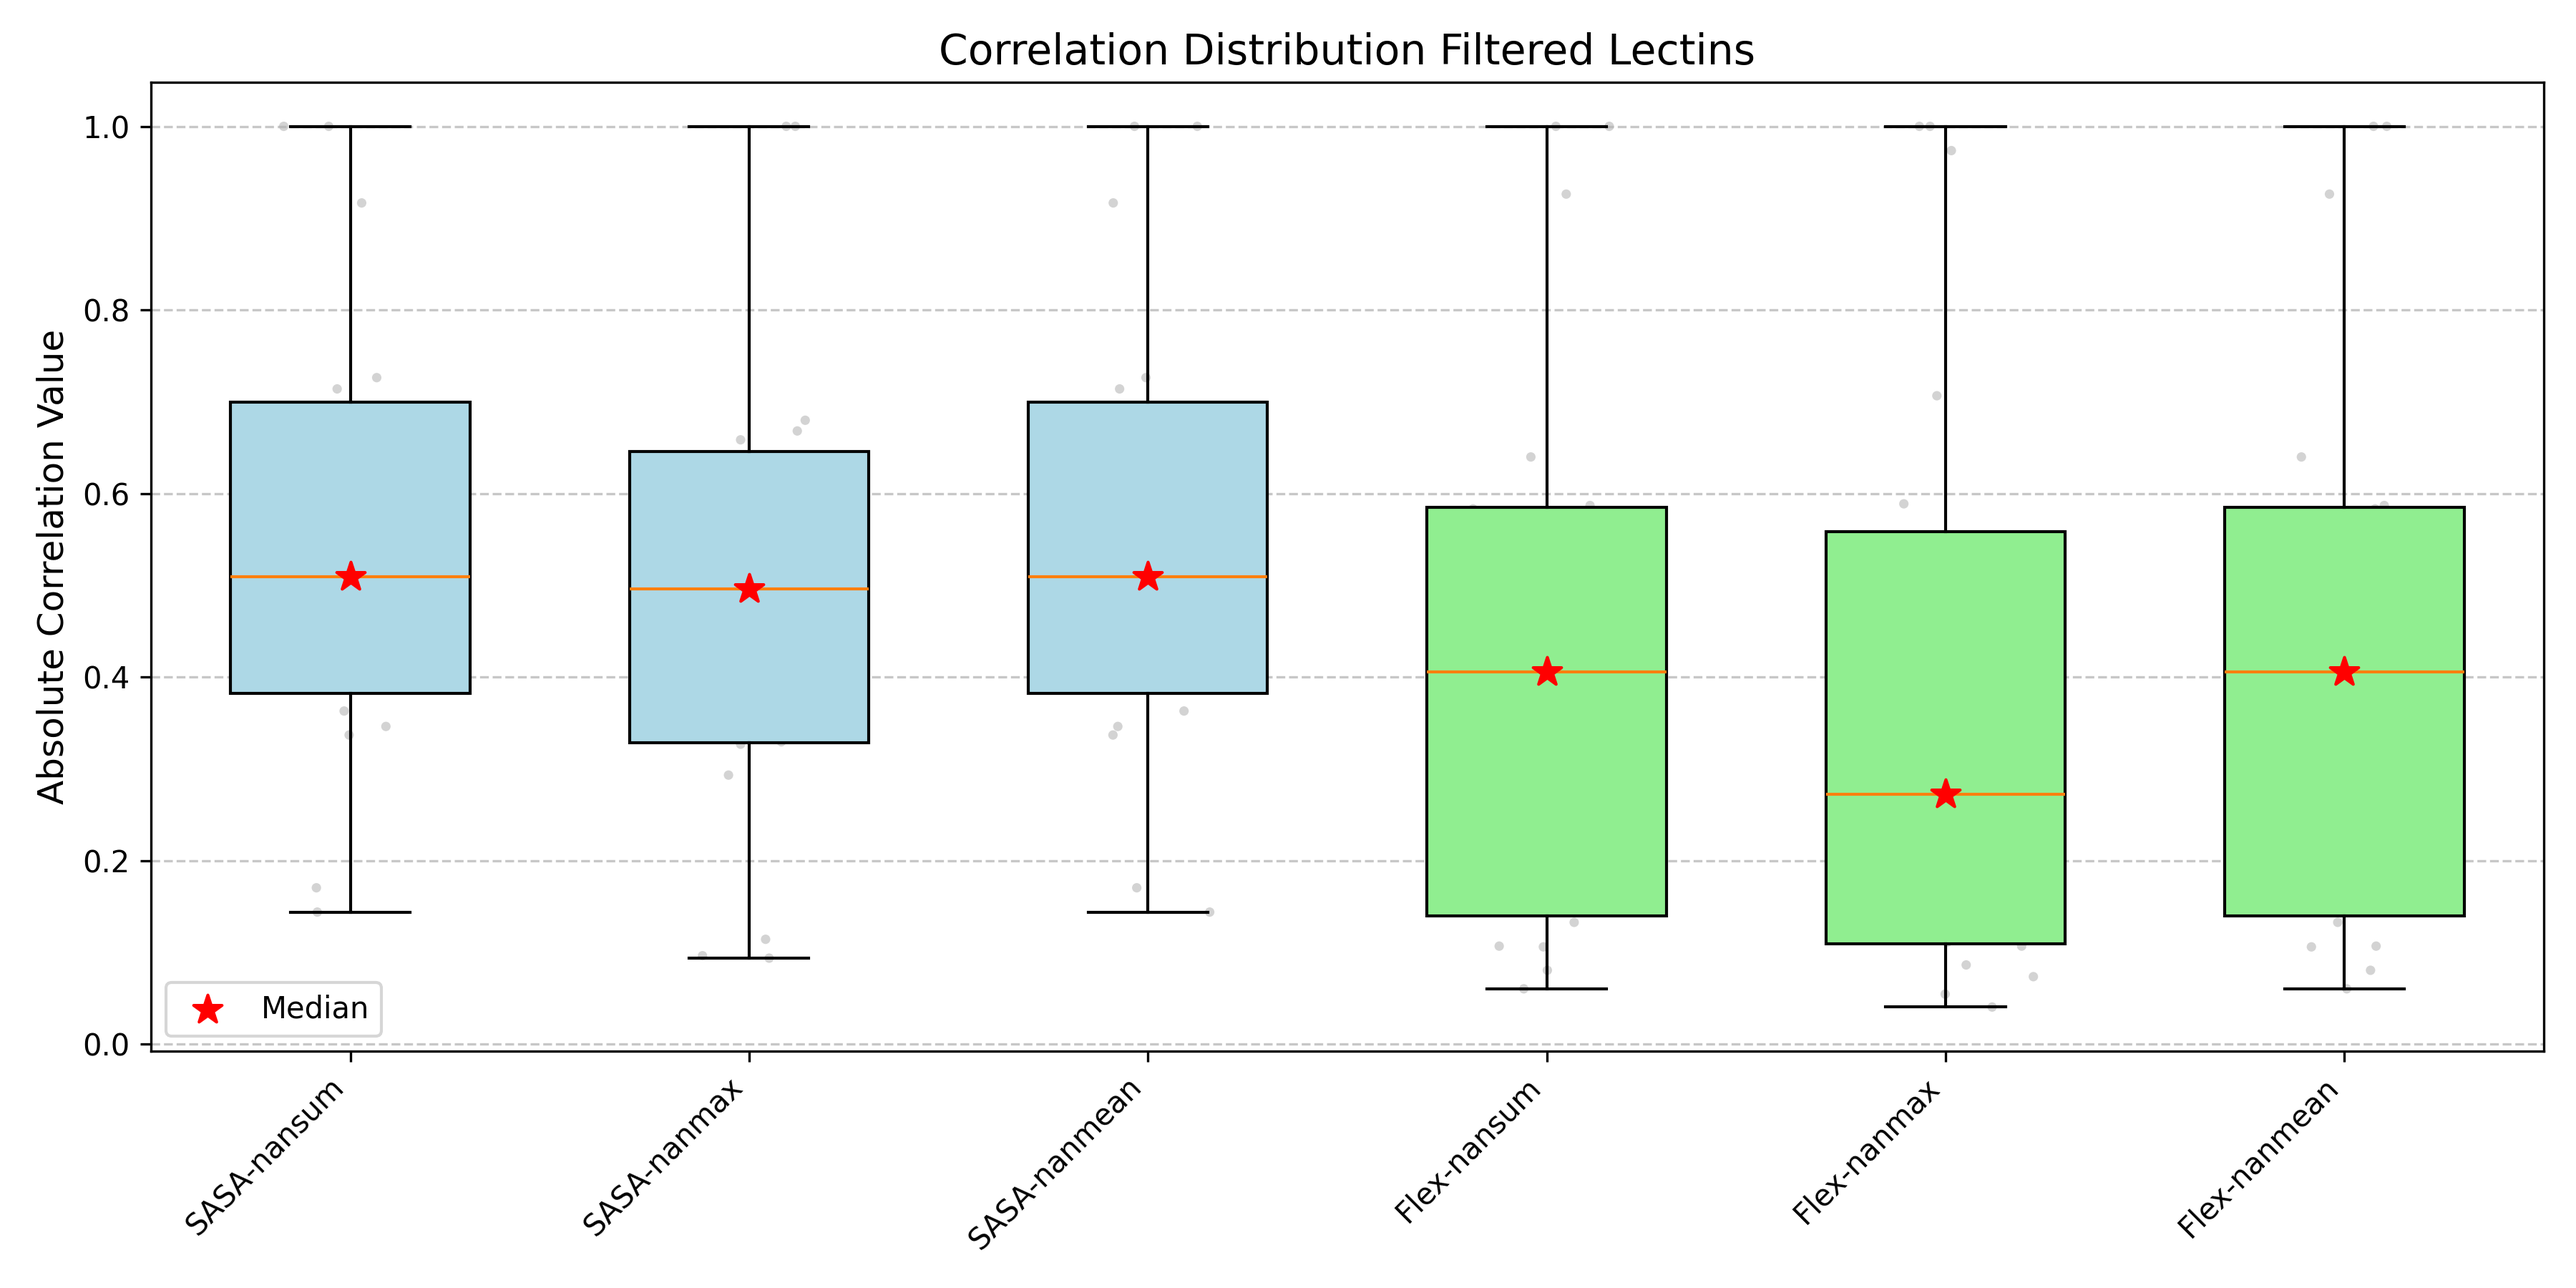
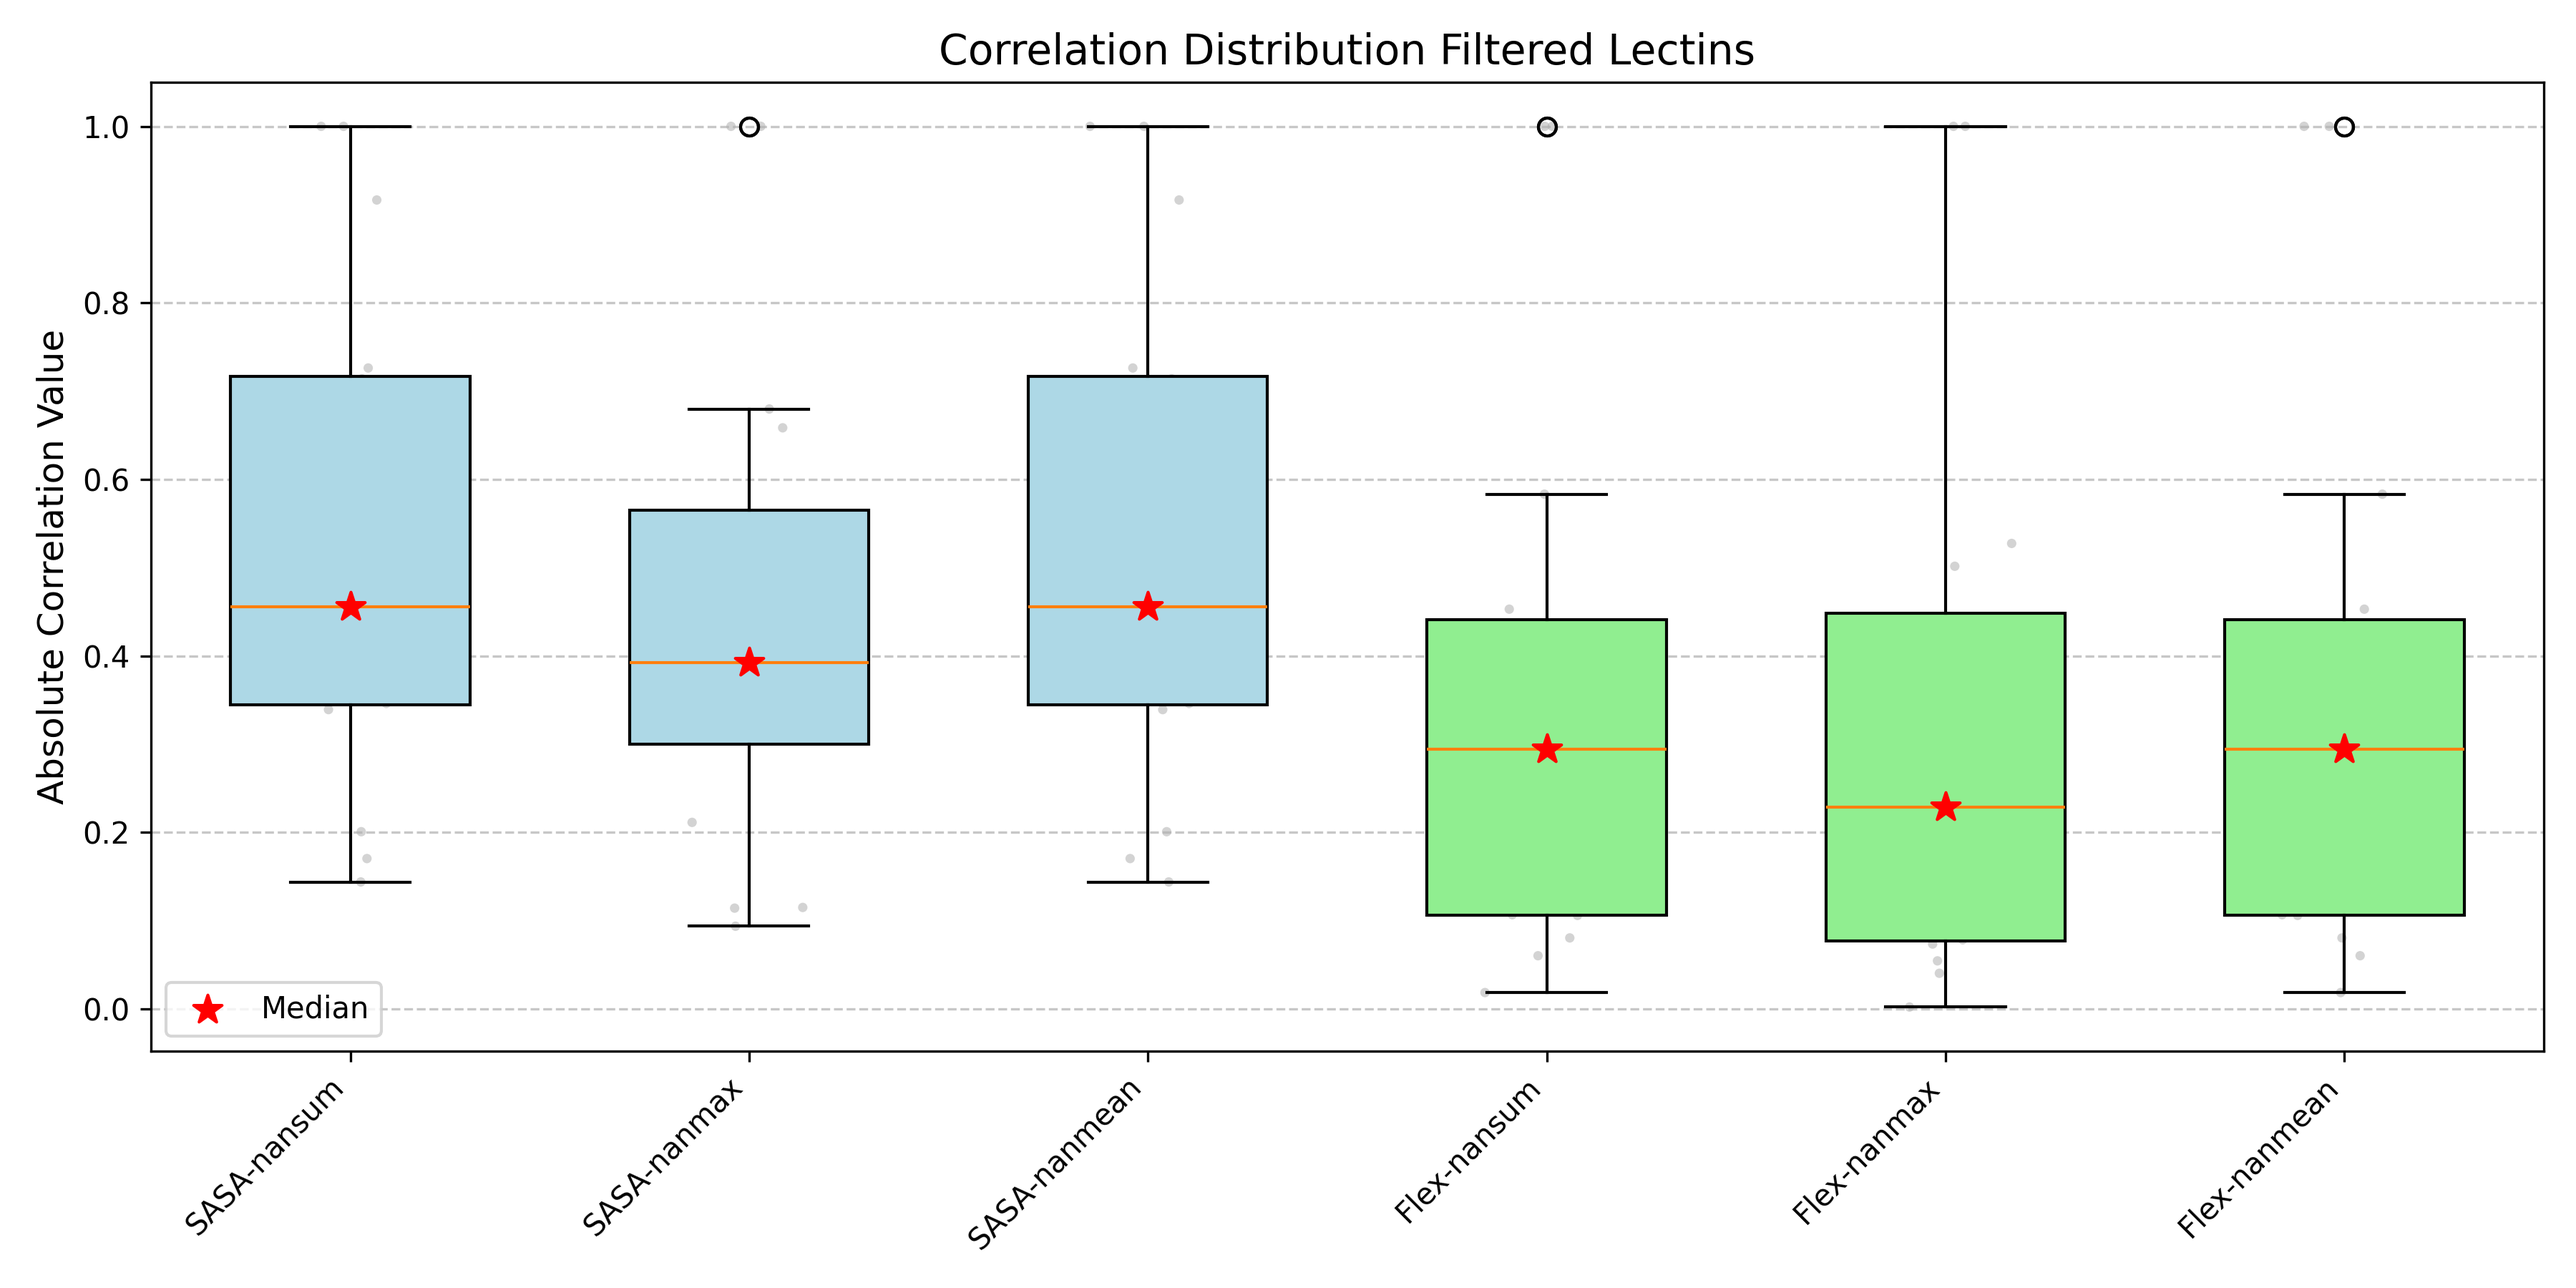
lectin_keys, aggregated lectins

diff --git a/magic_summary.py b/magic_summary.py
@@ -1,4 +1,6 @@
 from inspect import unwrap
+
+from IPython.lib.deepreload import found_now
 from glycowork.motif.graph import compare_glycans, subgraph_isomorphism
 from glycowork.motif.graph import glycan_to_nxGraph
 from scripts_dep.load_data import load_data
@@ -6,11 +8,9 @@ import matplotlib.pyplot as plt
 import pandas as pd
 import numpy as np
 
-
-
 lectin_binding_motif = {
-    "AOL": { "motif": ["Fuc(a1-?)"],
-             "termini_list": [["t"]] },
+    "AOL": {"motif": ["Fuc(a1-?)"],
+            "termini_list": [["t"]]},
     "AAL": {
         "motif": ["Fuc(a1-?)"],
         "termini_list": [["t"]]
@@ -40,14 +40,9 @@ lectin_binding_motif = {
         "termini_list": [["t"], ["t"]]
     },
 
-
-
-
-
-
     "AMA": {
-        "motif": ["GlcNAc(b1-2/4)Man(a1-?)","Man(a1-2)"],
-        "termini_list": [["t","f"], ["t"]]
+        "motif": ["GlcNAc(b1-2/4)Man(a1-?)", "Man(a1-2)"],
+        "termini_list": [["t", "f"], ["t"]]
     },
     "GNA": {
         "motif": ["Man(a1-6)", "Man(a1-3)"],
@@ -71,27 +66,24 @@ lectin_binding_motif = {
     },
     "ABA": {
         "motif": ["GlcNAc(b1-2)Man(a1-3)[GlcNAc(b1-2)Man(a1-6)]Man"],
-        "termini_list": [["f", "f","f","f", "f"]]
+        "termini_list": [["f", "f", "f", "f", "f"]]
     },
     "CA": {
         "motif": ["Gal(b1-3/4)GlcNAc(b1-2)Man(a1-3)[Gal(b1-3/4)GlcNAc(b1-2)Man(a1-6)]Man"],
-        "termini_list": [["f", "f","f","f", "f", "f", "f"]]
+        "termini_list": [["f", "f", "f", "f", "f", "f", "f"]]
     },
     "CAA": {
         "motif": ["Gal(b1-3/4)GlcNAc(b1-2)Man(a1-3)[Gal(b1-3/4)GlcNAc(b1-2)Man(a1-6)]Man"],
-        "termini_list": [["f", "f","f","f", "f", "f", "f"]]
+        "termini_list": [["f", "f", "f", "f", "f", "f", "f"]]
     },
     "TL": {
         "motif": ["GlcNAc(b1-2)Man(a1-3)[GlcNAc(b1-2)Man(a1-6)]Man(b1-4)GlcNAc(b1-4)[Fuc(a1-6)]GlcNAc"],
-        "termini_list": [["f", "f","f","f", "f", "f", "f", "f"]]
+        "termini_list": [["f", "f", "f", "f", "f", "f", "f", "f"]]
     },
     "ACA": {
         "motif": ["Gal(b1-3)GalNAc", "GalOS(b1-3)GalNAc"],
         "termini_list": [["f", "f"], ["f", "f"]]
     },
-
-
-
 
     "AIA": {
         "motif": ["Gal(b1-3)GalNAc", "GlcNAc(b1-3)GalNAc"],
@@ -118,19 +110,17 @@ lectin_binding_motif = {
         "termini_list": [["t"], ["t"]]
     },
     "LTL": {
-        "motif": ["Fuc(a1-3)[Gal(b1-4)]GlcNAc",],
+        "motif": ["Fuc(a1-3)[Gal(b1-4)]GlcNAc", ],
         "termini_list": [["t", "f", "f"]]
     },
     "LTA": {
-        "motif": ["Fuc(a1-3)[Gal(b1-4)]GlcNAc",],
+        "motif": ["Fuc(a1-3)[Gal(b1-4)]GlcNAc", ],
         "termini_list": [["t", "f", "f"]]
     },
     "PSA": {
         "motif": ["Fuc(a1-6)"],
         "termini_list": [["t"]]
     },
-
-
 
     "PTL-I": {
         "motif": ["Fuc(a1-2)[GalNAc(a1-3)]Gal", "Fuc(a1-2)[Gal(a1-3)]Gal"],
@@ -141,16 +131,14 @@ lectin_binding_motif = {
         "termini_list": [["t", "t", "f"], ["t", "t", "f"]]
     },
 
-
     "PTA-II": {
-        "motif": ["Fuc(a1-2)Gal(b1-4)GlcNAc" ],
-        "termini_list": [["t", "f", "f"] ]
+        "motif": ["Fuc(a1-2)Gal(b1-4)GlcNAc"],
+        "termini_list": [["t", "f", "f"]]
     },
     "PTL-II": {
-        "motif": ["Fuc(a1-2)Gal(b1-4)GlcNAc" ],
-        "termini_list": [["t", "f", "f"] ]
+        "motif": ["Fuc(a1-2)Gal(b1-4)GlcNAc"],
+        "termini_list": [["t", "f", "f"]]
     },
-
 
     "TJA-II": {
         "motif": ["Fuc(a1-2)Gal(b1-3)GalNAc", "Fuc(a1-2)Gal(b1-3/4)GlcNAc"],
@@ -161,7 +149,8 @@ lectin_binding_motif = {
         "termini_list": [["t", "f"]]
     },
     "CTB": {
-        "motif": ["Gal(b1-3)GalNAc(b1-4)[Sia(a2-3)]Gal(b1-4)GlcNAc(b1-3)", "Fuc(a1-2)Gal(b1-3)GalNAc(b1-4)[Sia(a2-3)]Gal(b1-4)GlcNAc(b1-3)"],
+        "motif": ["Gal(b1-3)GalNAc(b1-4)[Sia(a2-3)]Gal(b1-4)GlcNAc(b1-3)",
+                  "Fuc(a1-2)Gal(b1-3)GalNAc(b1-4)[Sia(a2-3)]Gal(b1-4)GlcNAc(b1-3)"],
         "termini_list": [["t", "f", "t", "f", "f"], ["t", "f", "f", "t", "f", "f"]]
 
     },
@@ -179,7 +168,6 @@ lectin_binding_motif = {
         "termini_list": [["t", "f"], ["t", "f"], ["t", "f", "f"]]
     },
 
-
     "PSL": {
         "motif": ["Sia(a2-6)Gal(b1-3/4)GlcNAc"],
         "termini_list": [["t", "f", "f"]]
@@ -188,8 +176,6 @@ lectin_binding_motif = {
         "motif": ["Sia(a2-6)Gal(b1-4)GlcNAc"],
         "termini_list": [["t", "f", "f"]]
     },
-
-
 
     "GS-II": {
         "motif": ["GlcNAc"],
@@ -200,17 +186,13 @@ lectin_binding_motif = {
         "termini_list": [["t", "f", "f", "f"]]
     },
     "UEA-II": {
-        "motif": ["GlcNAc(b1-3)", "Fuc(a1-2)Gal(b1-4)GlcNAc", "Fuc(a1-2)Gal(b1-3)GalNAc" ],
+        "motif": ["GlcNAc(b1-3)", "Fuc(a1-2)Gal(b1-4)GlcNAc", "Fuc(a1-2)Gal(b1-3)GalNAc"],
         "termini_list": [["t"], ["t", "f", "f"], ["t", "f", "f"]]
     },
     "WGA": {
         "motif": ["GlcNAc", "GalNAc", "Sia(a2-?)", "MurNAc(b1-?)"],
         "termini_list": [["t"], ["t"], ["t"], ["t"]]
     },
-
-
-
-
 
     "BPA": {
         "motif": ["Gal(b1-?)", "GalNAc(b1-?)"],
@@ -287,7 +269,6 @@ lectin_binding_motif = {
         "termini_list": [["t"], ["t", "f"]]
     },
 
-
     "VVL": {
         "motif": ["GalNAc"],
         "termini_list": [["t"]]
@@ -297,17 +278,96 @@ lectin_binding_motif = {
         "termini_list": [["t"]]
     },
 
-
     "WFA": {
         "motif": ["GalNAc", "Gal(b1-3/4)GlcNAc(b1-3)"],
         "termini_list": [["t"], ["t", "f"]]
     }
 }
+lectin_keys= {
+    "LTL": "LTA",
+    "PTL-I": "PTA-I",
+    "MAL": "MAA",
+    "BPL": "BPA",
+    "LEL": "LEA",
+    "STL": "STA",
+    "VVL": "VVA",
+
+
+    "AOL": "AOL",
+    "AAL": "AAL",
+    "SNA": "SNA",
+    "ConA": "ConA",
+    "MAL-II": "MAL-II",
+    "PNA": "PNA",
+    "CMA": "CMA",
+    "HPA": "HPA",
+    "AMA": "AMA",
+    "GNA": "GNA",
+    "HHL": "HHL",
+    "MNA-M": "MNA-M",
+    "NPA": "NPA",
+    "UDA": "UDA",
+    "ABA": "ABA",
+    "CA": "CA",
+    "CAA": "CAA",
+    "TL": "TL",
+    "ACA": "ACA",
+    "AIA": "AIA",
+    "CF": "CF",
+    "HAA": "HAA",
+    "MPA": "MPA",
+    "LAA": "LAA",
+    "LcH": "LcH",
+    "LTA": "LTA",
+    "PSA": "PSA",
+    "PTA-I": "PTA-I",
+    "PTA-II": "PTA-II",
+    "PTL-II": "PTL-II",
+    "TJA-II": "TJA-II",
+    "UEA-I": "UEA-I",
+    "CTB": "CTB",
+    "MAL-I": "MAL-I",
+    "MAA": "MAA",
+    "PSL": "PSL",
+    "TJA-I": "TJA-I",
+    "GS-II": "GS-II",
+    "PWA": "PWA",
+    "UEA-II": "UEA-II",
+    "WGA": "WGA",
+    "BPA": "BPA",
+    "ECA": "ECA",
+    "GS-I": "GS-I",
+    "LEA": "LEA",
+    "MOA": "MOA",
+    "PA-IL": "PA-IL",
+    "LecA": "LecA",
+    "RCA-I": "RCA-I",
+    "RCA120": "RCA120",
+    "SJA": "SJA",
+    "STA": "STA",
+    "CSA": "CSA",
+    "DBA": "DBA",
+    "SBA": "SBA",
+    "VVA": "VVA",
+    "WFA": "WFA"
+}
+
+
+
 structure_graphs, glycan_binding, invalid_graphs = load_data()
-lectins_filt = {k:v for k,v in lectin_binding_motif.items() if any(len(t)>1 for t in v['termini_list']) and k in glycan_binding.protein.tolist()} # compare_aggregations
-lectins = {k:v for k,v in lectin_binding_motif.items() if k in glycan_binding.protein.tolist()}
-binding_data = glycan_binding.set_index('protein').drop(['target'], axis=1).T
-glycan_dict = {g:v for g,v in structure_graphs.items() if g in binding_data.index or any(compare_glycans(g, b) for b in binding_data.index)}
+
+lectins_filt = {k: v for k, v in lectin_binding_motif.items() if any(
+    len(t) > 1 for t in v['termini_list']) and k in glycan_binding.protein.tolist()}  # compare_aggregations
+
+lectins = {k: v for k, v in lectin_binding_motif.items() if k in glycan_binding.protein.tolist()}
+
+binding_data = glycan_binding.set_index('protein').drop(['target'], axis=1).T #subset of glycan_binding
+
+binding_data = binding_data.rename(columns=lectin_keys)  # synonym dict
+binding_data = binding_data.T.groupby(level=0).median().T  # aggregate multiple columns for same lectin
+
+glycan_dict = {g: v for g, v in structure_graphs.items() if
+               g in binding_data.index or any(compare_glycans(g, b) for b in binding_data.index)}
 
 
 
@@ -405,7 +465,7 @@ def plot_correlation_boxplot(sasa_all, flex_all, title="Correlation Distribution
 
     return fig, ax
 
-def get_correlations_(lectins, glycan_dict, binding_data, agg1, agg2):
+def get_correlations_(lectin_keys, glycan_dict, binding_data, agg1, agg2):
     sasa_df, flex_df = pd.DataFrame(index=glycan_dict.keys()), pd.DataFrame(index=glycan_dict.keys())
 
     def safe_agg(func, data):
@@ -413,7 +473,8 @@ def get_correlations_(lectins, glycan_dict, binding_data, agg1, agg2):
             return np.nan  # Return NaN for empty arrays
         return func(data)
 
-    for lectin, binding_motif in lectins.items():
+    for lectin in lectin_keys:
+        binding_motif = lectin_binding_motif[lectin]
         motif_graphs = [glycan_to_nxGraph(binding_motif['motif'][i], termini='provided',
                                           termini_list=binding_motif['termini_list'][i]) for i in
                         range(len(binding_motif['motif']))]
@@ -435,16 +496,16 @@ def get_correlations_(lectins, glycan_dict, binding_data, agg1, agg2):
         flex_df[lectin] = all_flex
 
     sasa_corr = sasa_df.corrwith(binding_data, axis=0, drop=False, method='pearson')
-    sasa_corr = sasa_corr.reset_index().groupby(
-        "index").median().dropna()  # agg multiple proteins columns in binding data
+    sasa_corr = sasa_corr  # .reset_index().groupby("index").median().dropna()  # agg multiple proteins columns in binding data
 
     flex_corr = flex_df.corrwith(binding_data).dropna()  # drop lectins with no corr
     flex_corr = flex_corr.reset_index().groupby("index").median()
     return sasa_corr, flex_corr
 
+
 """
 Lectin-Binding Motif > 1 mono
-agg1 = variable
+agg1 = variable #sum/mean won!
 agg2 = fixed
 
 """
@@ -454,61 +515,64 @@ agg_n = ['nansum', 'nanmax', 'nanmean']
 
 sasa_filt = {}
 flex_filt = {}
+x = list(glycan_dict.keys())
+#y = list(set(list(lectin_keys.values()))) # set to remove duplicates
+#found_lectins = [lectin for lectin in y if lectin in binding_data.columns]
+
+
+
+
 for i, name in zip(agg_list, agg_n):
     sasa_corr, flex_corr = get_correlations_(
-        lectins_filt,
+        lectins_filt.keys(), #subest of lectins
         glycan_dict,
-        binding_data.loc[list(glycan_dict.keys()), list(lectins_filt.keys())],
+        binding_data.loc[x, binding_data.columns],
         agg1=i,
         agg2=np.nansum)
 
     sasa_filt[name] = sasa_corr
     flex_filt[name] = flex_corr
 
-    sasa_filt_abs_median = sasa_corr.abs().median()
-    print(f"sasa_filt_abs_median : {sasa_filt_abs_median[0]:.2f}")
-    flex_filt_abs_median = flex_corr.abs().median()
-    print(f"flex_filt_abs_median: {flex_filt_abs_median[0]:.2f}")
+    print(name)
+    sasa_filt_abs_median = float(sasa_corr.abs().median())
+    print(f"sasa_filt_abs_median : {sasa_filt_abs_median:.2f}")
+    flex_filt_abs_median = float(flex_corr.abs().median())
+    print(f"flex_filt_abs_median: {flex_filt_abs_median:.2f}")
     print("")
-
 
 plot_correlation_boxplot(sasa_filt, flex_filt, "Correlation Distribution Filtered Lectins")
 plt.savefig("results/plots/correlation_boxplot_filtered_lectins.png", dpi=300)
 plt.show()
 
-
 """
 all Lectins
 agg1 = fixed
-agg2 = variable
+agg2 = variable #max won!
 """
+
 
 sasa_all = {}
 flex_all = {}
+
 for i, name in zip(agg_list, agg_n):
     sasa_corr, flex_corr = get_correlations_(
         lectins,
         glycan_dict,
-        binding_data.loc[list(glycan_dict.keys()), list(lectins.keys())],
+        binding_data.loc[list(glycan_dict.keys()), binding_data.columns],
         agg1=np.nansum,
         agg2=i)
 
     sasa_all[name] = sasa_corr
     flex_all[name] = flex_corr
 
-    sasa_all_abs_median = sasa_corr.abs().median()
-    print(f"sasa_all_abs_median: {sasa_all_abs_median[0]:.2f}")
-    flex_all_abs_median = flex_corr.abs().median()
-    print(f"flex_all_abs_median: {flex_all_abs_median[0]:.2f}")
+
+    print(name)
+    sasa_all_abs_median = float(sasa_corr.abs().median()    )
+    print(f"sasa_all_abs_median: {sasa_all_abs_median:.2f}")
+    flex_all_abs_median = float (flex_corr.abs().median()   )
+    print(f"flex_all_abs_median: {flex_all_abs_median:.2f}")
     print("")
 
 plot_correlation_boxplot(sasa_all, flex_all, "Correlation Distribution all Lectins")
 plt.savefig("results/plots/correlation_boxplot_all_lectins.png", dpi=300)
 plt.show()
-
-
-
-
-
-
-
